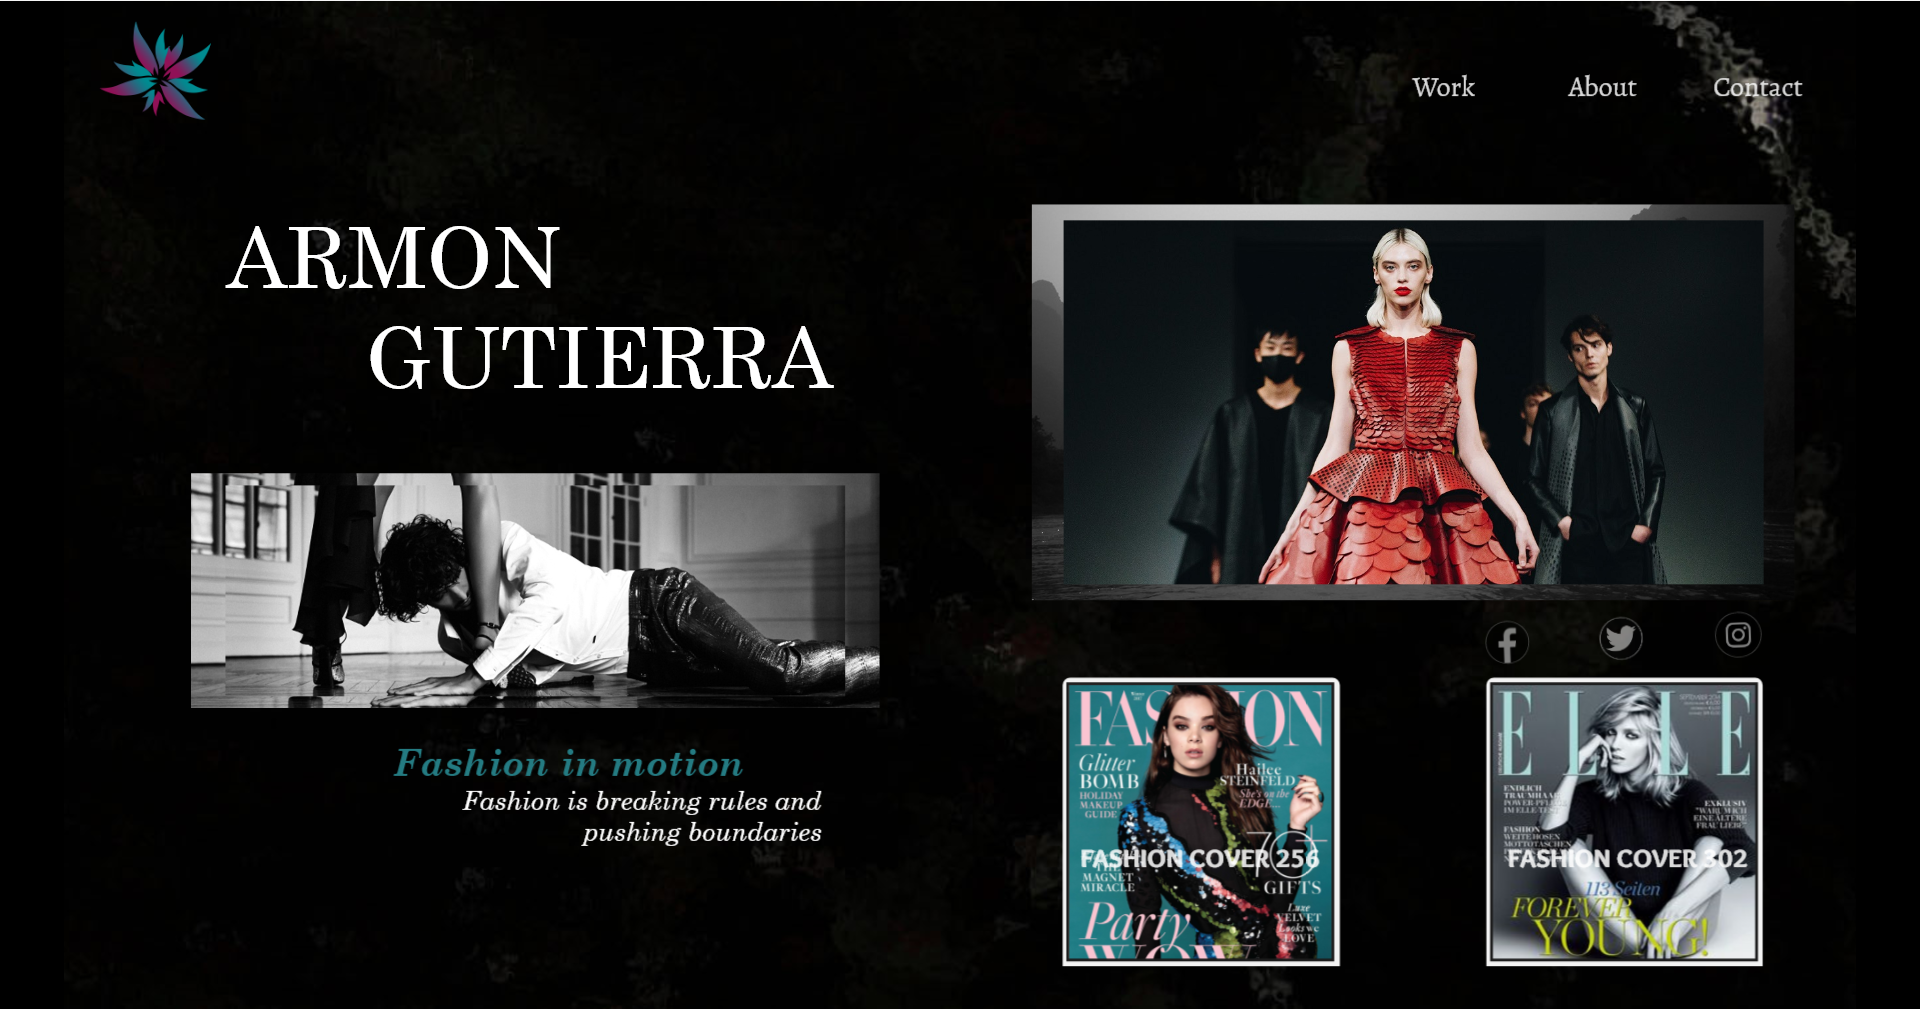
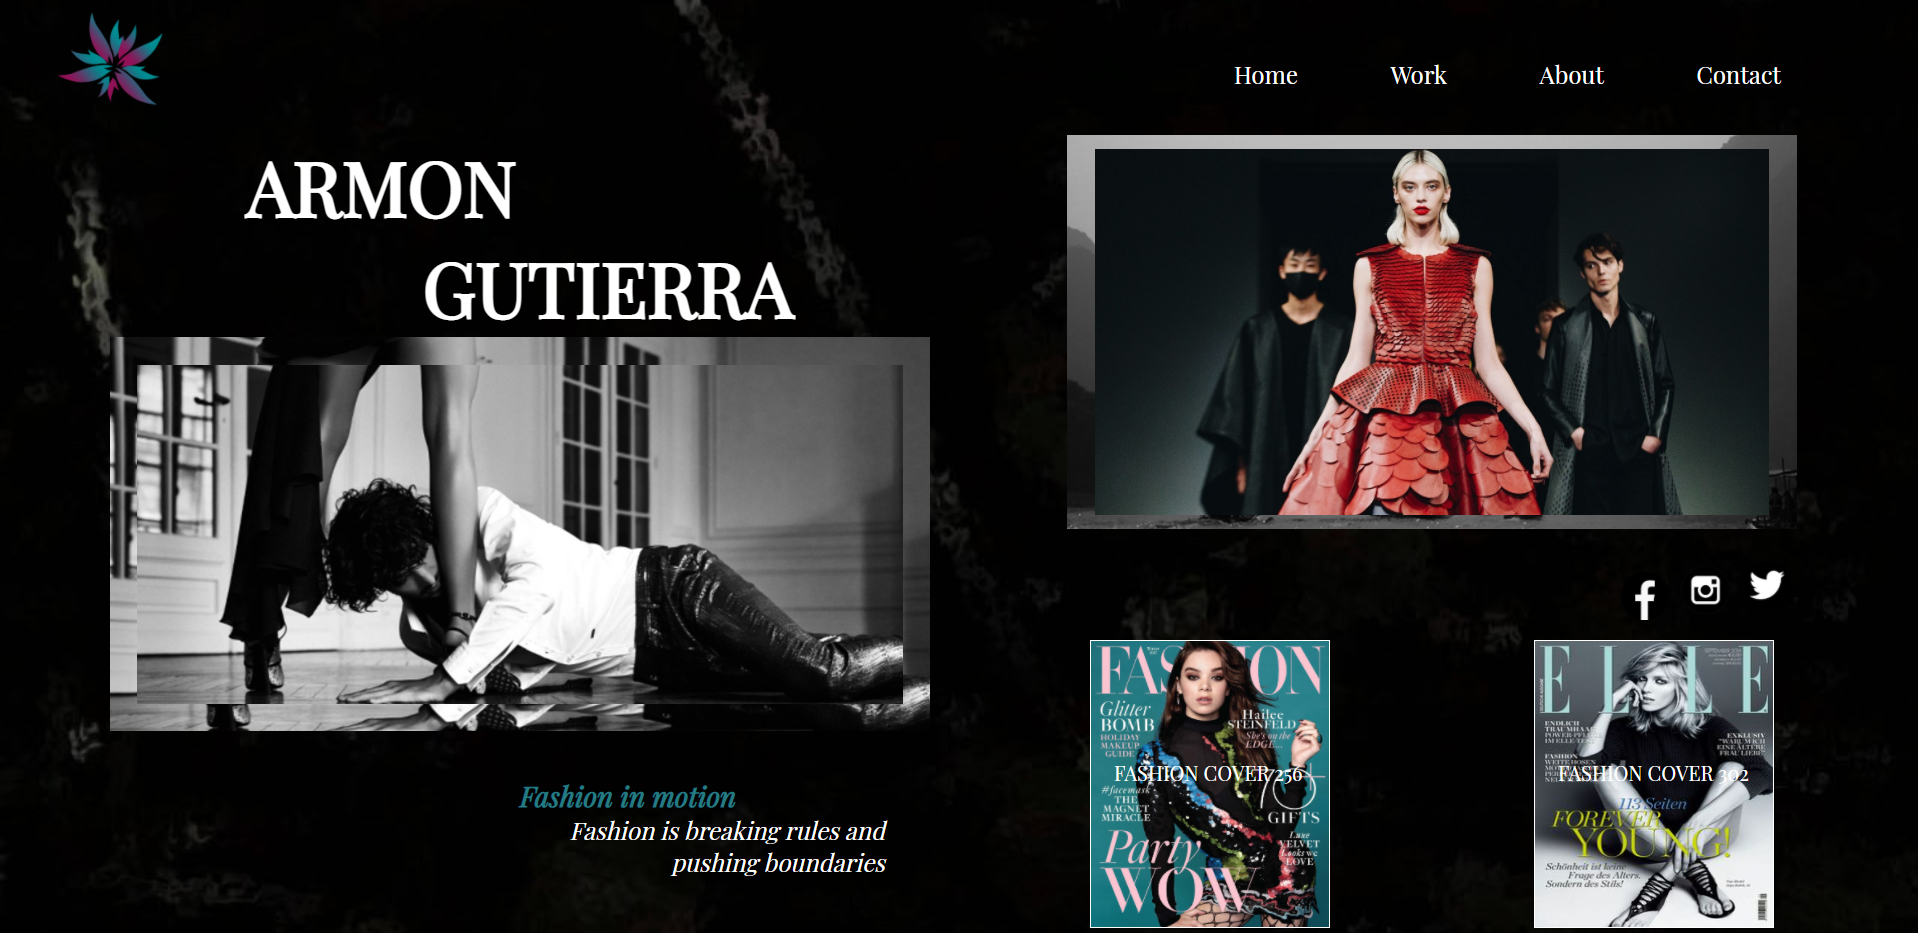
Updated fashion concept photo and added a link

diff --git a/client/src/components/ProjectsPage/Projects.js b/client/src/components/ProjectsPage/Projects.js
@@ -18,7 +18,7 @@ const Projects = [
     title: 'ARMON GUTIERRA',
     img: fashion,
     description: "Fashion designer concept website.",
-    link: "",
+    link: "https://goofy-goldwasser-fd5395.netlify.app/",
     github: "https://github.com/KamajiiSC/fashion-concept",
     techs: ["HTML", "CSS", "SASS"]
   },
